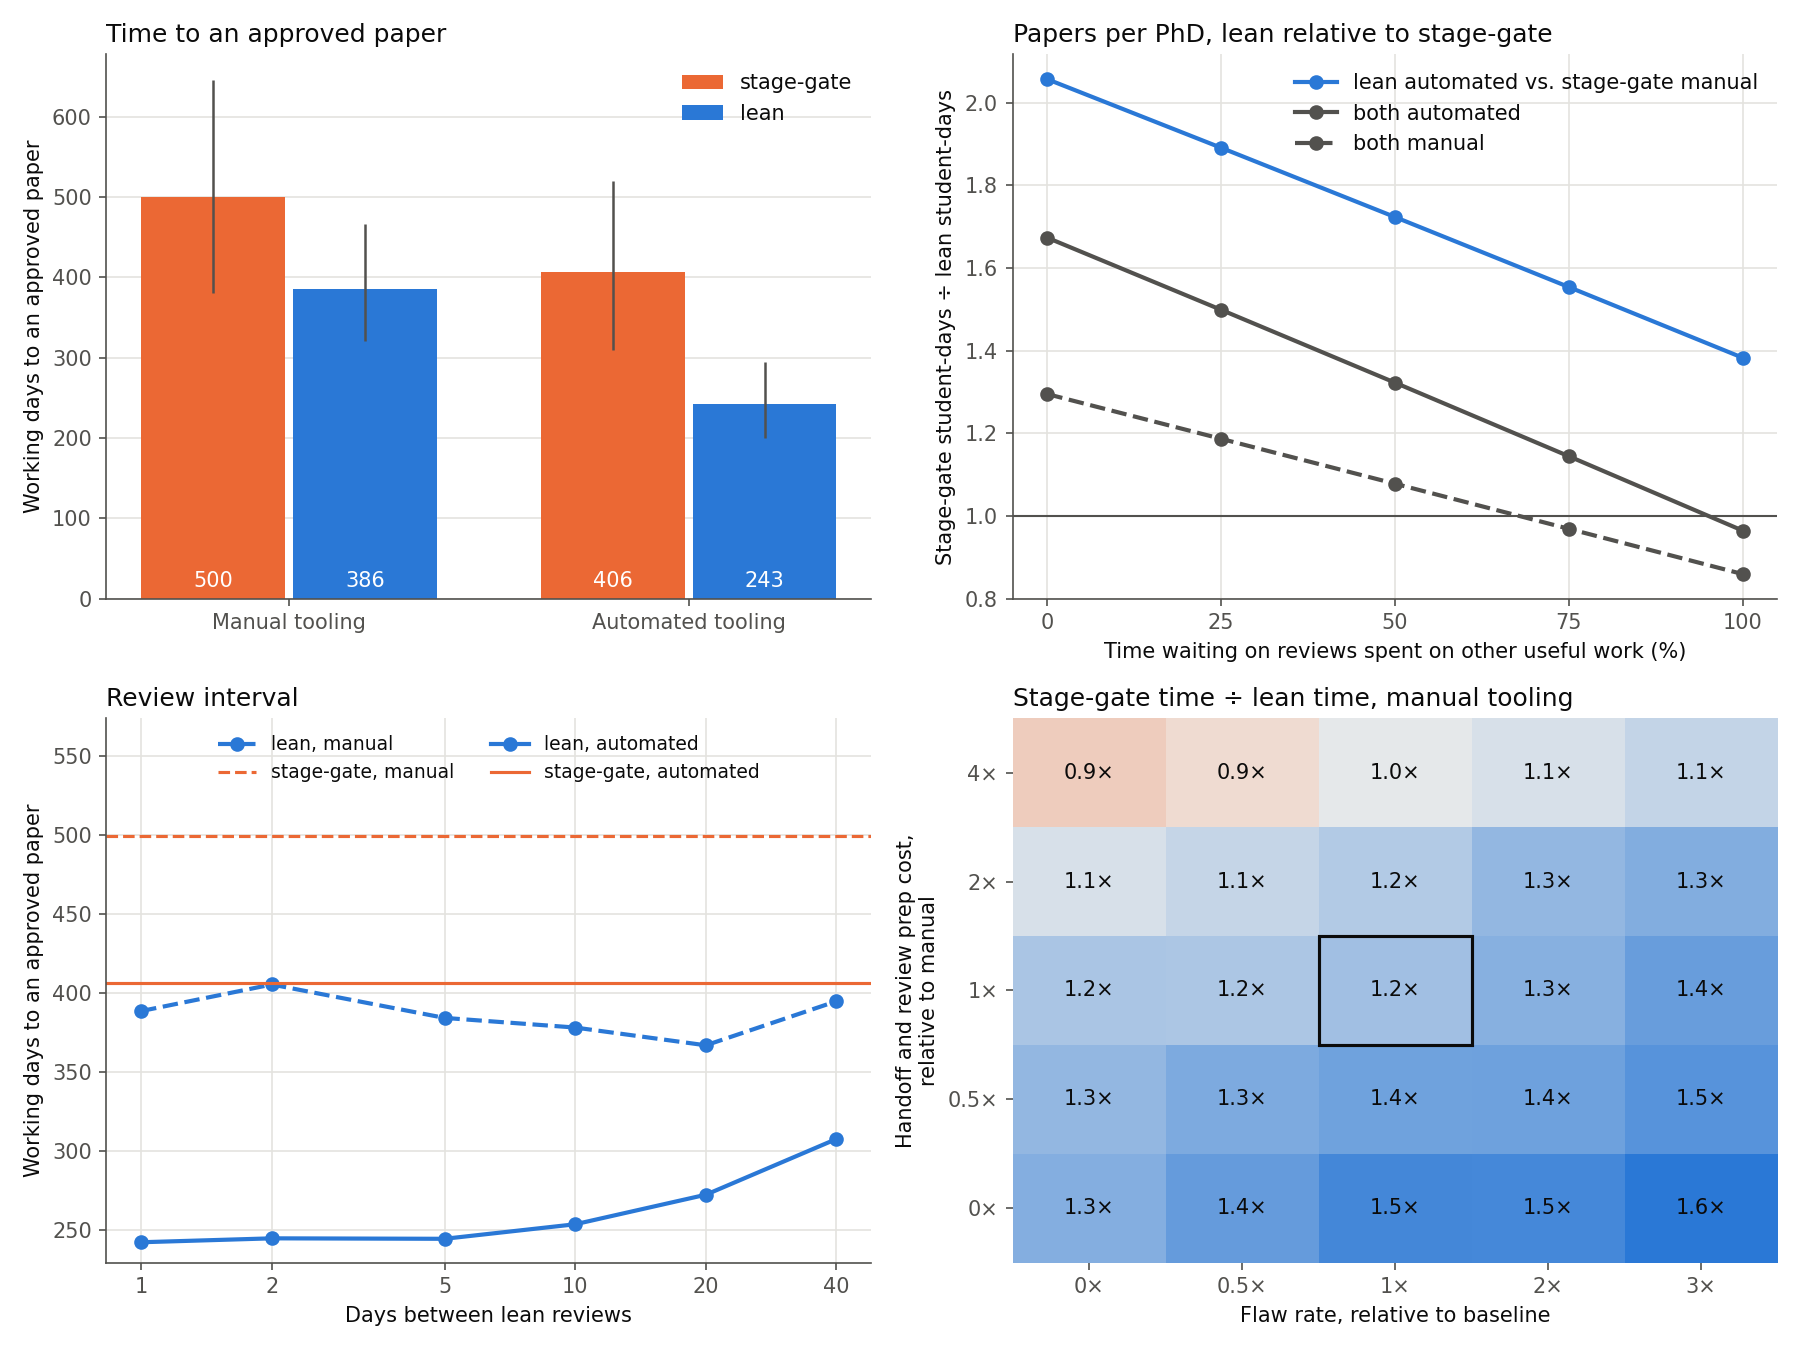
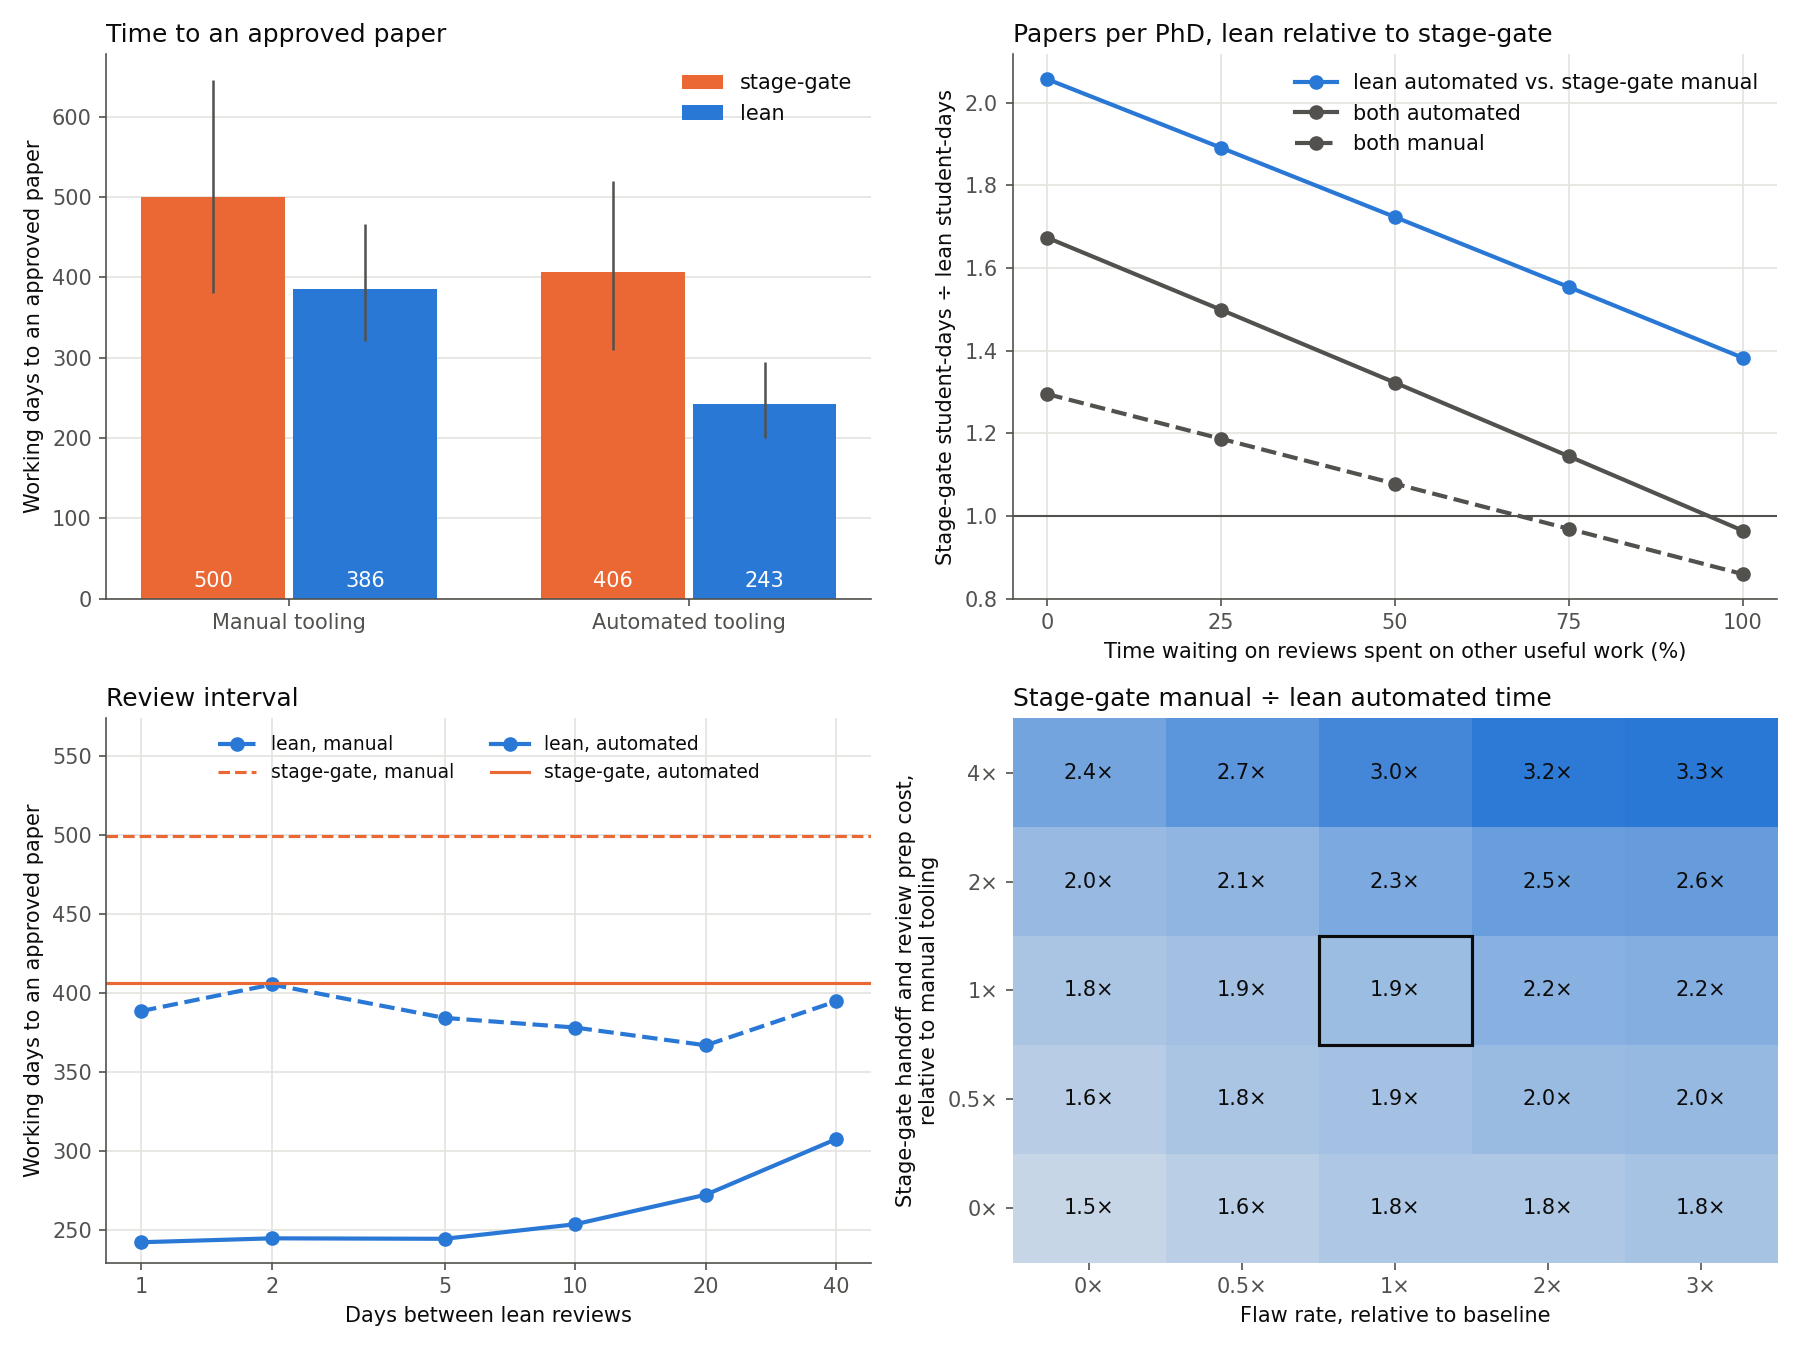
Map lean with automation against stage-gate without in the heatmap

Changed region(s): [[0.56, 0.4978, 0.9956, 0.9333], [0.4978, 0.6222, 0.5289, 0.8711]]

diff --git a/scripts/research-flow.py b/scripts/research-flow.py
@@ -498,15 +498,17 @@ interval_sweep = {
     ]
     for t in TOOLING
 }
-# Where lean's advantage is large: scale the manual tooling's handoff and
-# prep costs and how often flaws get introduced
+# Where lean with automated tooling beats stage-gate with manual tooling
+# by most: scale the manual tooling's handoff and prep costs, and how often
+# flaws get introduced for both
 cost_scales = [0.0, 0.5, 1.0, 2.0, 4.0]
 flaw_scales = [0.0, 0.5, 1.0, 2.0, 3.0]
 ratio_grid: list[list[float]] = []
 for a, cs in enumerate(cost_scales):
     row: list[float] = []
     for b, fs in enumerate(flaw_scales):
-        over: dict[str, Any] = {
+        flaws = [min(f * fs, 1.0) for f in BASE["flaw_prob"]]
+        costs = {
             k: TOOLING["manual"][k] * cs
             for k in [
                 "handoff_fixed",
@@ -515,15 +517,15 @@ for a, cs in enumerate(cost_scales):
                 "prep_item",
             ]
         }
-        over["flaw_prob"] = [min(f * fs, 1.0) for f in BASE["flaw_prob"]]
-        p = params_for("manual", **over)
-        days = {
-            pol: summarize(simulate(pol, p, 150, 1000 + 50 * a + 10 * b + k))[
+        seed = 1000 + 50 * a + 10 * b
+        status_quo = params_for("manual", flaw_prob=flaws, **costs)
+        flagship = params_for("automated", flaw_prob=flaws)
+        row.append(
+            summarize(simulate("stage-gate", status_quo, 150, seed))[
                 "days_mean"
             ]
-            for k, pol in enumerate(POLICIES)
-        }
-        row.append(days["stage-gate"] / days["lean"])
+            / summarize(simulate("lean", flagship, 150, seed + 1))["days_mean"]
+        )
     ratio_grid.append(row)
 results = {
     "params": {

diff --git a/scripts/plot-research-flow.py b/scripts/plot-research-flow.py
@@ -97,7 +97,8 @@ ax3.set_title("Review interval", loc="left")
 ax3.grid(color=GRID)
 ax3.set_ylim(top=ax3.get_ylim()[1] * 1.12)
 ax3.legend(frameon=False, fontsize=9, loc="upper center", ncol=2)
-# Lean's advantage as handoffs get costlier and flaws more common
+# Lean with automation against stage-gate without, as the latter's
+# handoffs get costlier and flaws more common
 grid = np.array(r["ratio_grid"]["days_ratio"])
 cmap = LinearSegmentedColormap.from_list(
     "div", [COLORS["stage-gate"], "#f0efec", COLORS["lean"]]
@@ -112,8 +113,10 @@ fs = r["ratio_grid"]["flaw_scales"]
 ax4.set_xticks(range(len(fs)), [f"{f:g}×" for f in fs])
 ax4.set_yticks(range(len(cs)), [f"{c:g}×" for c in cs])
 ax4.set_xlabel("Flaw rate, relative to baseline")
-ax4.set_ylabel("Handoff and review prep cost,\nrelative to manual")
-ax4.set_title("Stage-gate time ÷ lean time, manual tooling", loc="left")
+ax4.set_ylabel(
+    "Stage-gate handoff and review prep cost,\nrelative to manual tooling"
+)
+ax4.set_title("Stage-gate manual ÷ lean automated time", loc="left")
 ax4.add_patch(
     plt.Rectangle(
         (fs.index(1.0) - 0.5, cs.index(1.0) - 0.5),
